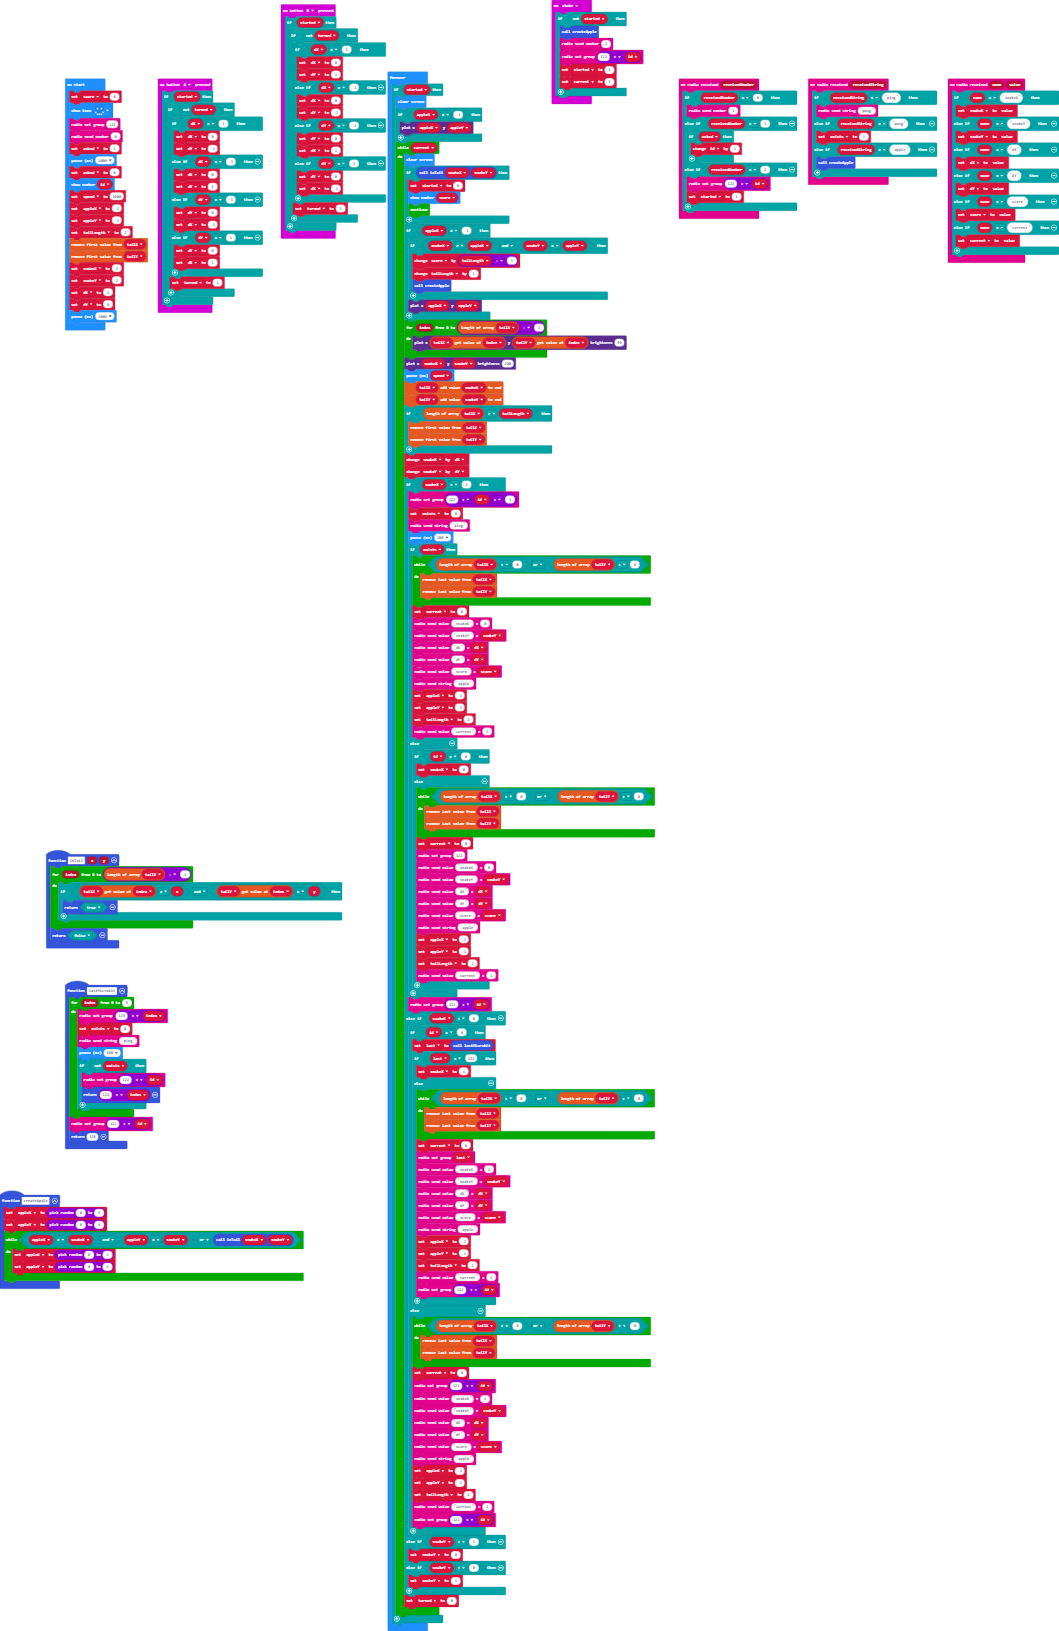
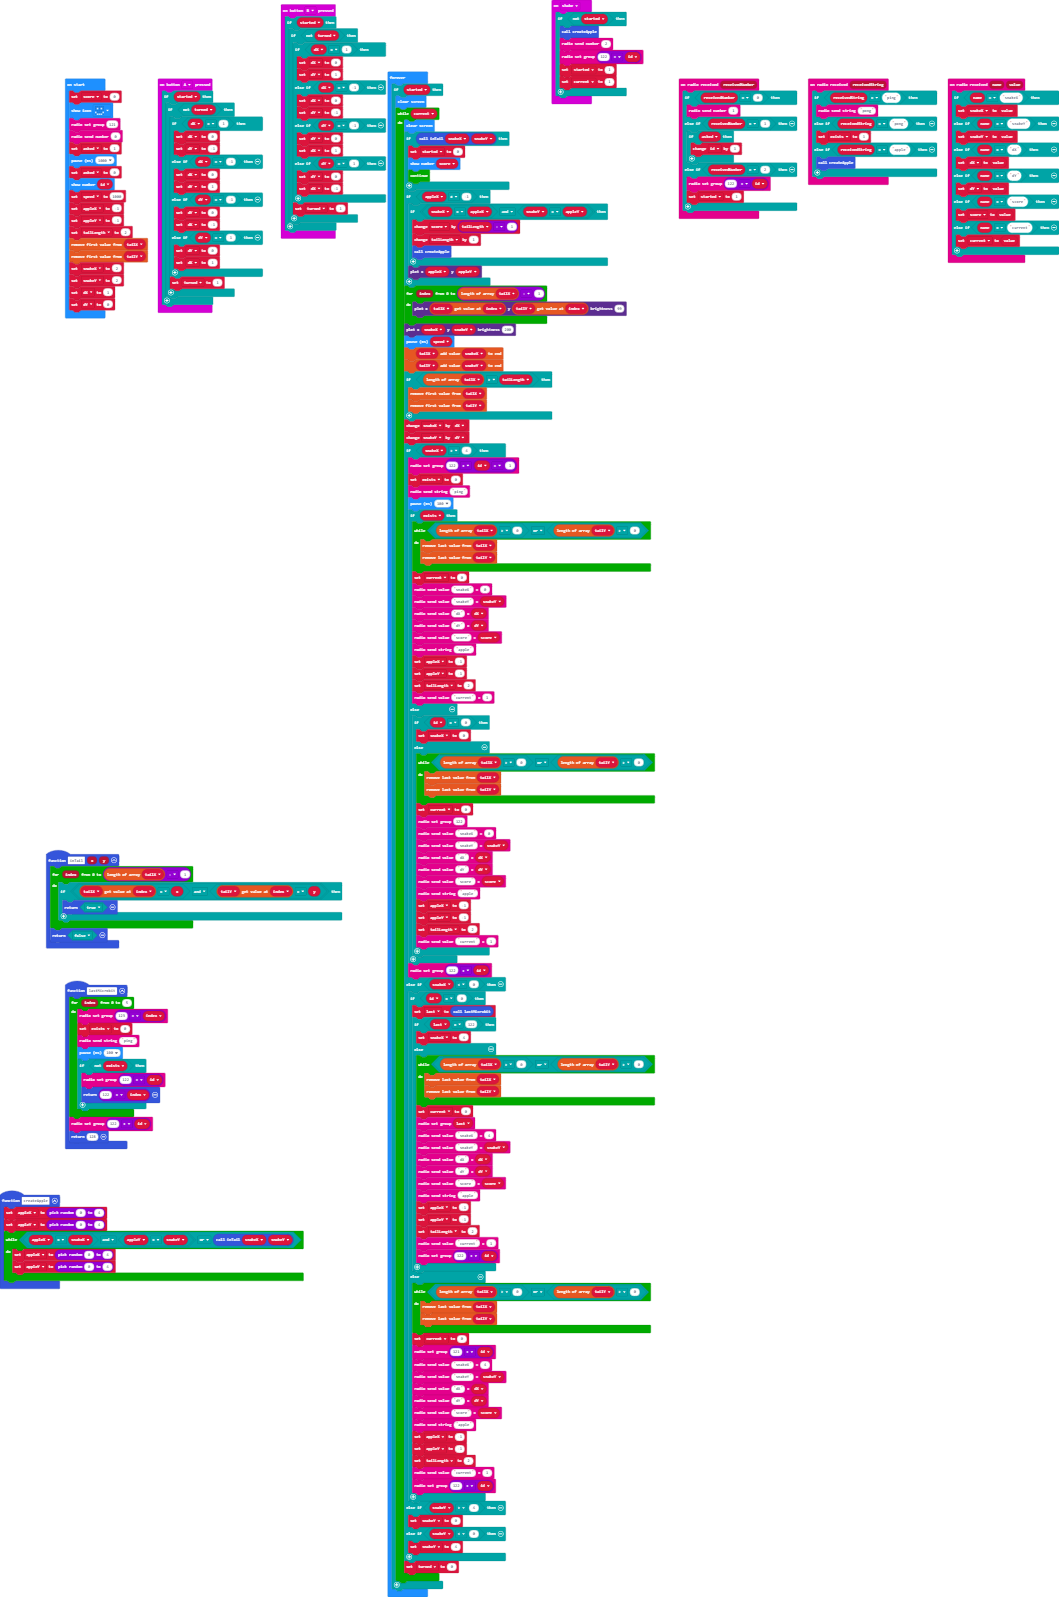
no need to pause

diff --git a/main.ts b/main.ts
@@ -151,13 +151,9 @@ snakeX = 2
 snakeY = 2
 dX = 1
 dY = 0
-basic.pause(1000)
 basic.forever(function () {
     if (started) {
         basic.clearScreen()
-        if (appleX != -1) {
-            led.plot(appleX, appleY)
-        }
         while (current) {
             basic.clearScreen()
             if (inTail(snakeX, snakeY)) {
